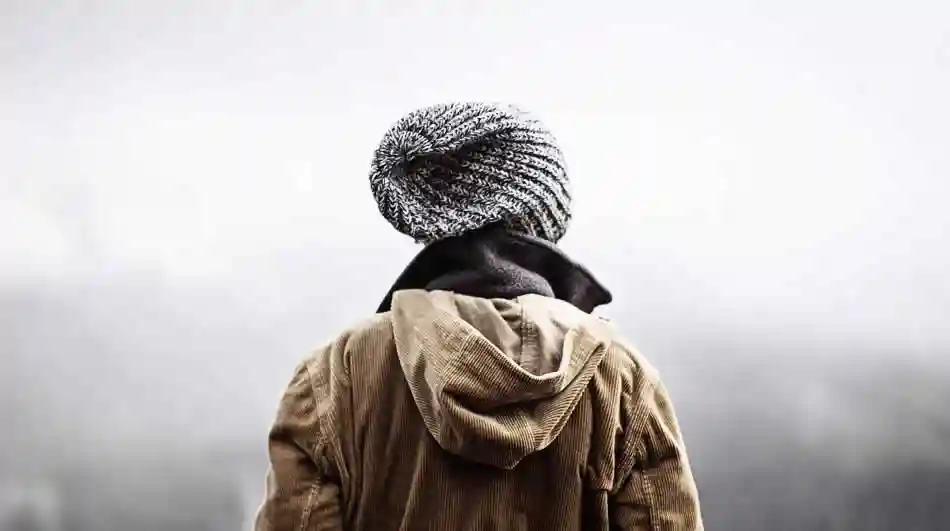
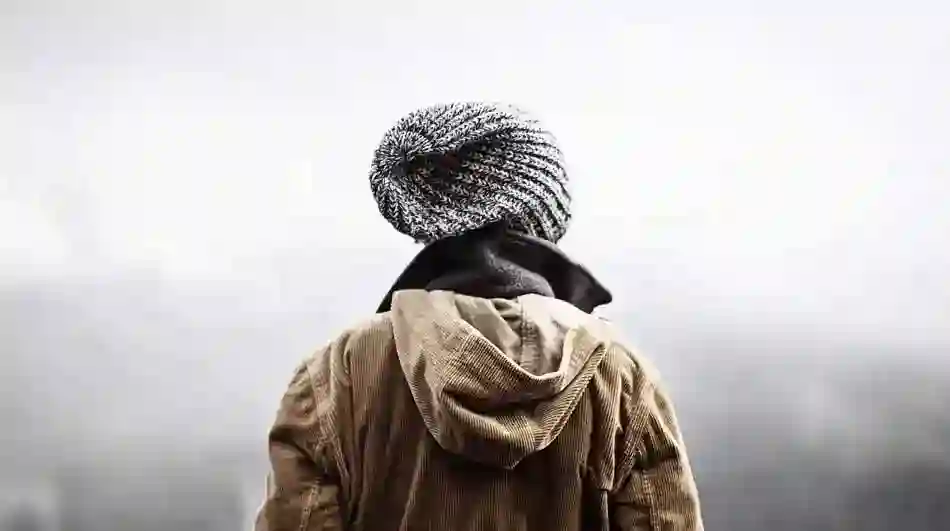
4.0

diff --git a/index.html b/index.html
@@ -7,7 +7,7 @@
     <title>Namari - Free Landing Page Template</title>
 
     <!-- Preload LCP Image -->
-    <link rel="preload" href="images/banner-images/banner-image-1.jpg" as="image">
+    <link rel="preload" href="images/banner-images/banner-image-1.webp" as="image">
 
     <!--Meta Keywords and Description-->
     <meta name="keywords" content="">

diff --git a/css/namari-color.css b/css/namari-color.css
@@ -124,7 +124,7 @@ a:hover, #header.nav-solid nav a:hover {
 /* Banner Background and Text Colors */
 
 #banner {
-    background: url("../images/banner-images/banner-image-1.jpg") no-repeat center top;
+    background: url("../images/banner-images/banner-image-1.webp") no-repeat center top;
     background-size:cover;
 }
 
